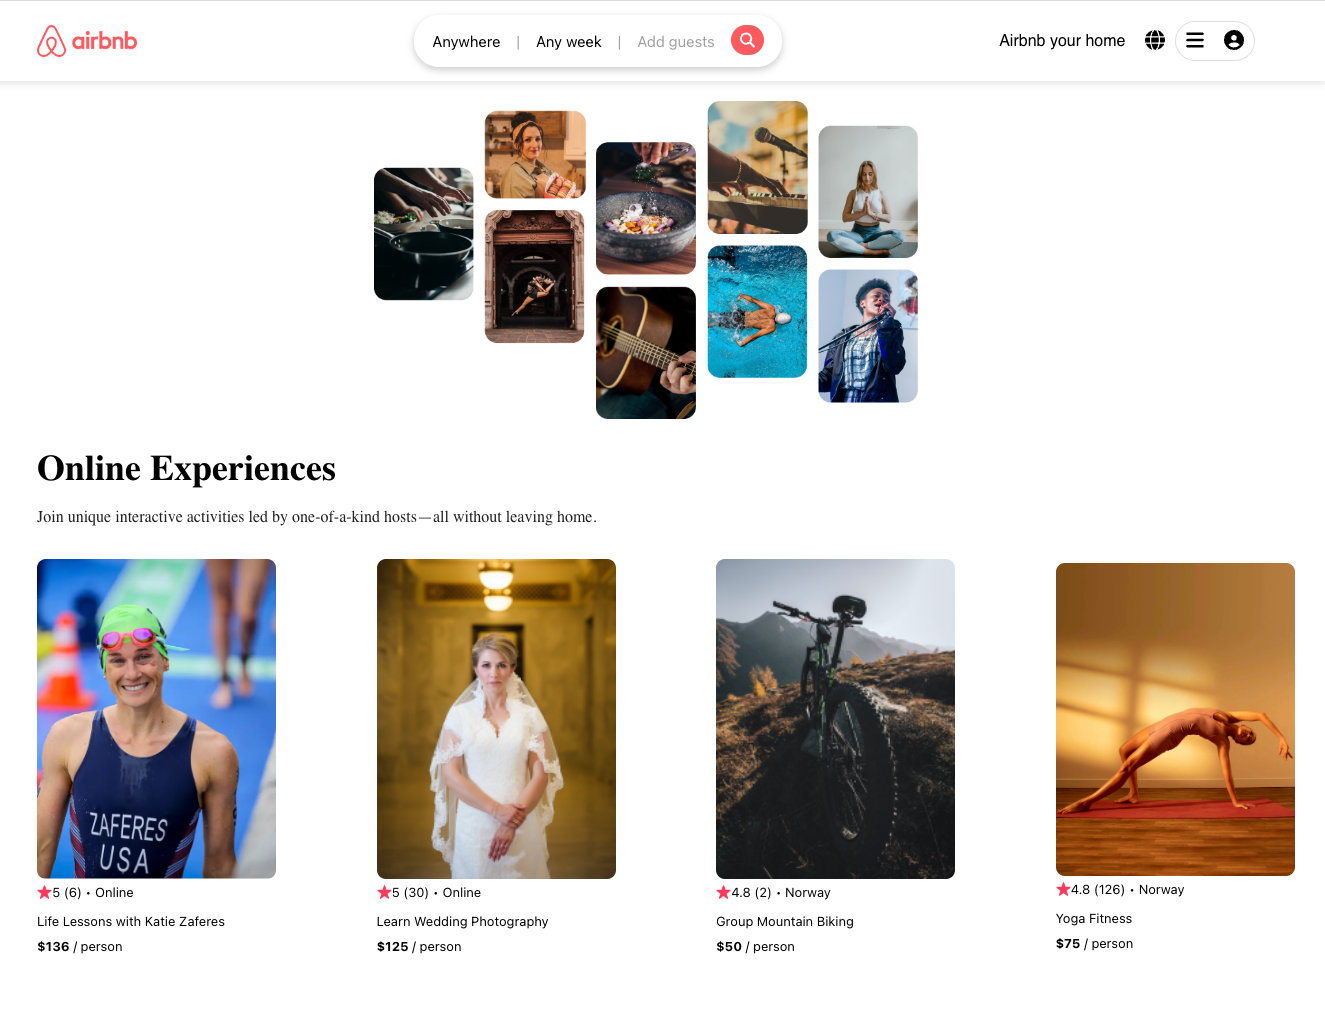
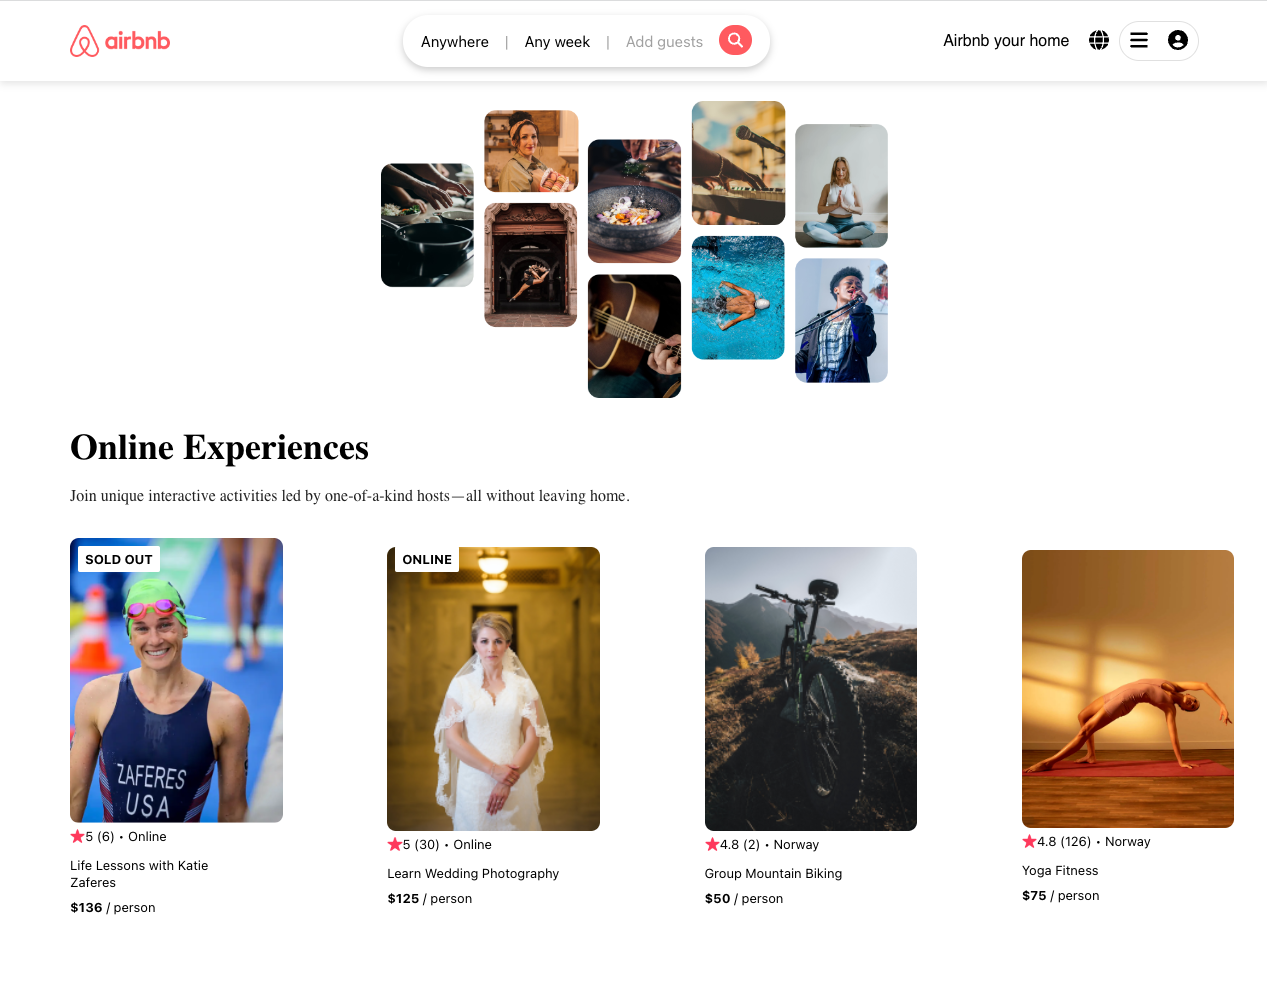
card complete

diff --git a/src/components/Card.jsx b/src/components/Card.jsx
@@ -3,8 +3,15 @@ import "../css/card.css"
 import star from "../images/star.png"
 
 export default function Card(props) {
+    let badgeText;
+    if (props.openSpots === 0) {
+        badgeText = "SOLD OUT"
+    } else if (props.location === "Online") {
+        badgeText = "ONLINE"
+    }
     return (
         <div className="card">
+            {badgeText && <div className='card-badge'>{badgeText}</div>}
             <img src={`./images/${props.coverImg}`} className="card--image" />
             <div className="card--stats">
                 <img src={star} className="card--star" />

diff --git a/src/css/card.css b/src/css/card.css
@@ -30,3 +30,13 @@
     line-height: 1.3;
     margin-bottom: -5px;
 }
+
+.card-badge {
+    position: absolute;
+    top: 8px;
+    left: 8px;
+    background-color: #fff;
+    padding: 5px 7px;
+    border-radius: 2px;
+    font-weight: bold;
+}
